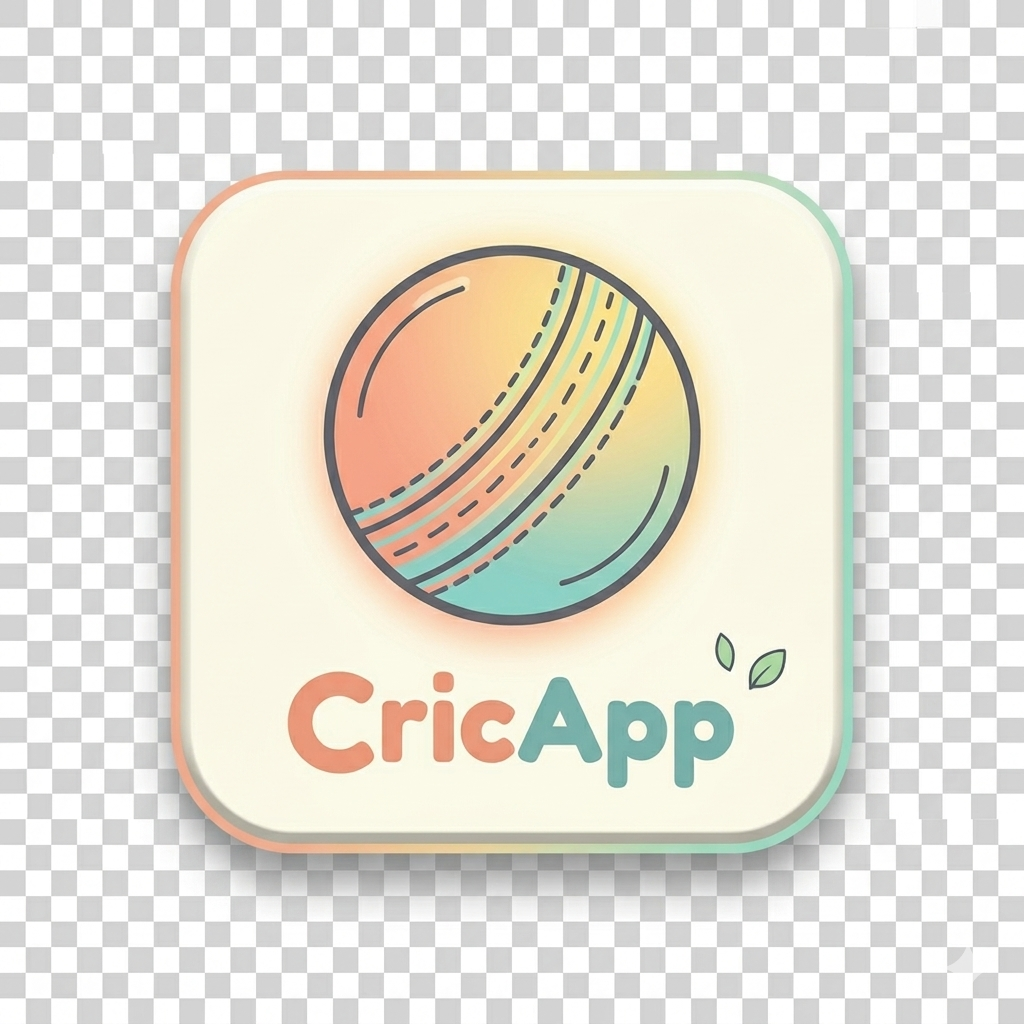
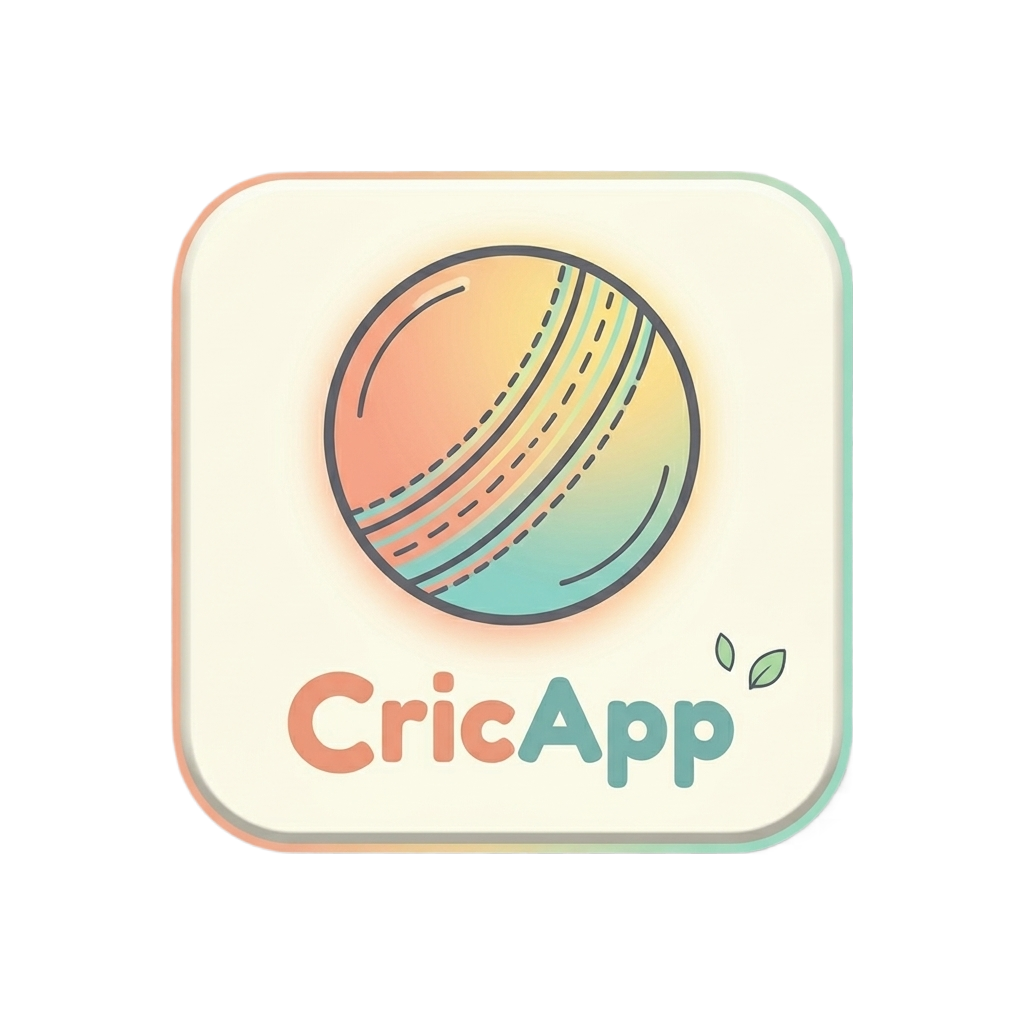
auto-commit for 41f31800-1968-48c6-a0f0-e87cdae1549d

diff --git a/frontend/src/components/SplashScreen.tsx b/frontend/src/components/SplashScreen.tsx
@@ -1,0 +1,150 @@
+import React, { useEffect, useState } from 'react';
+import {
+  View,
+  Text,
+  StyleSheet,
+  Image,
+  Animated,
+  Dimensions,
+} from 'react-native';
+
+const { width, height } = Dimensions.get('window');
+
+interface SplashScreenProps {
+  onFinish: () => void;
+}
+
+export default function SplashScreen({ onFinish }: SplashScreenProps) {
+  const [fadeAnim] = useState(new Animated.Value(0));
+  const [ballAnim] = useState(new Animated.Value(0));
+
+  useEffect(() => {
+    // Fade in animation
+    Animated.timing(fadeAnim, {
+      toValue: 1,
+      duration: 800,
+      useNativeDriver: true,
+    }).start();
+
+    // Rotating ball animation
+    Animated.loop(
+      Animated.timing(ballAnim, {
+        toValue: 1,
+        duration: 2000,
+        useNativeDriver: true,
+      })
+    ).start();
+
+    // Auto-dismiss after 3 seconds
+    const timer = setTimeout(() => {
+      Animated.timing(fadeAnim, {
+        toValue: 0,
+        duration: 500,
+        useNativeDriver: true,
+      }).start(() => {
+        onFinish();
+      });
+    }, 3000);
+
+    return () => clearTimeout(timer);
+  }, []);
+
+  const spin = ballAnim.interpolate({
+    inputRange: [0, 1],
+    outputRange: ['0deg', '360deg'],
+  });
+
+  return (
+    <View style={styles.container}>
+      {/* Full screen splash background */}
+      <Image
+        source={require('../../assets/splash.png')}
+        style={styles.splashBackground}
+        resizeMode="cover"
+      />
+      
+      {/* Loading animation overlay */}
+      <Animated.View style={[styles.loadingContainer, { opacity: fadeAnim }]}>
+        <Text style={styles.loadingText}>Loading Live Scores...</Text>
+        
+        {/* Animated cricket balls */}
+        <View style={styles.ballsContainer}>
+          {[0, 1, 2, 3, 4].map((index) => (
+            <Animated.View
+              key={index}
+              style={[
+                styles.ball,
+                {
+                  transform: [{ rotate: spin }],
+                  opacity: ballAnim.interpolate({
+                    inputRange: [0, 0.2 * (index + 1), 1],
+                    outputRange: [0.3, 1, 0.3],
+                  }),
+                },
+              ]}
+            >
+              <Text style={styles.ballEmoji}>🏏</Text>
+            </Animated.View>
+          ))}
+        </View>
+        
+        {/* Rotating main ball */}
+        <Animated.View style={[styles.mainBall, { transform: [{ rotate: spin }] }]}>
+          <Text style={styles.mainBallEmoji}>🏏</Text>
+        </Animated.View>
+      </Animated.View>
+    </View>
+  );
+}
+
+const styles = StyleSheet.create({
+  container: {
+    flex: 1,
+    width,
+    height,
+    backgroundColor: '#f5f5dc',
+  },
+  splashBackground: {
+    position: 'absolute',
+    width: '100%',
+    height: '100%',
+  },
+  loadingContainer: {
+    position: 'absolute',
+    bottom: 200,
+    width: '100%',
+    alignItems: 'center',
+    justifyContent: 'center',
+  },
+  loadingText: {
+    fontSize: 20,
+    fontWeight: '600',
+    color: '#666',
+    marginBottom: 20,
+    textAlign: 'center',
+  },
+  ballsContainer: {
+    flexDirection: 'row',
+    gap: 12,
+    marginBottom: 20,
+  },
+  ball: {
+    width: 40,
+    height: 40,
+    justifyContent: 'center',
+    alignItems: 'center',
+  },
+  ballEmoji: {
+    fontSize: 28,
+  },
+  mainBall: {
+    width: 60,
+    height: 60,
+    justifyContent: 'center',
+    alignItems: 'center',
+    marginTop: 10,
+  },
+  mainBallEmoji: {
+    fontSize: 48,
+  },
+});

diff --git a/frontend/app/index.tsx b/frontend/app/index.tsx
@@ -173,6 +173,11 @@ export default function Index() {
       return timeA - timeB;
     });
 
+  // Show splash screen on first load
+  if (showSplash) {
+    return <SplashScreen onFinish={() => setShowSplash(false)} />;
+  }
+
   if (loading) {
     return <LoadingScreen />;
   }